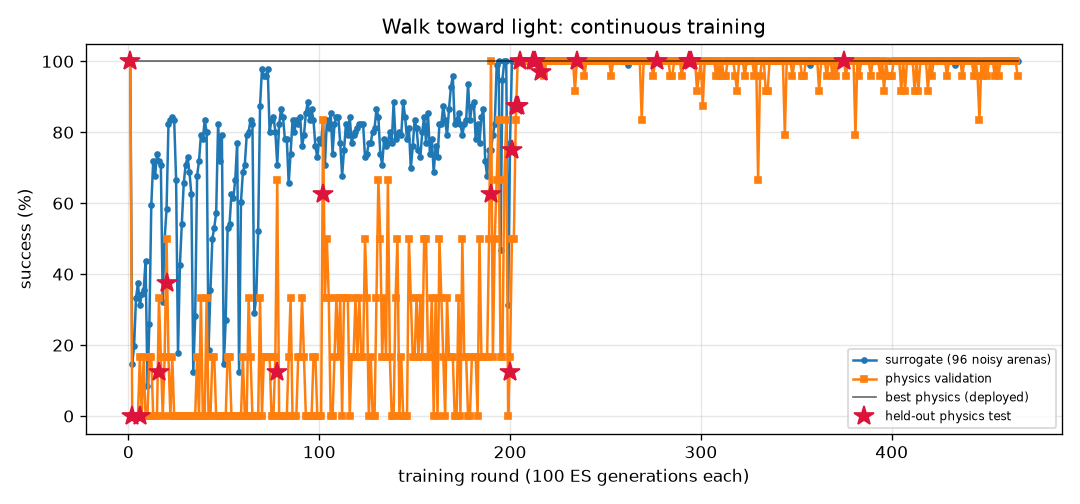
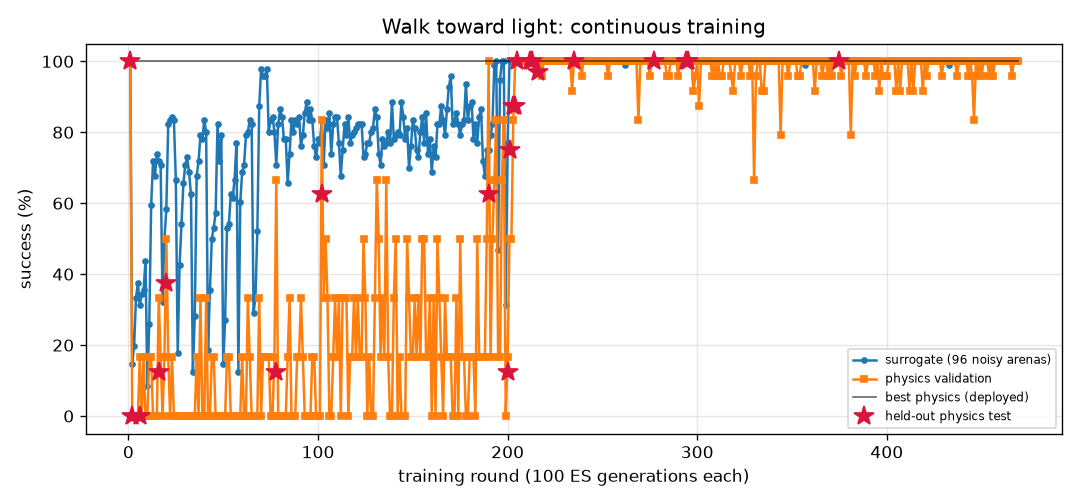
FlyLab: continuous training progress
- walk_forward: optimal, physics val 100% of 24, round 342
- turn: optimal, physics val 100% of 24, round 952
- goto: optimal, physics val 100% of 24, round 270
- odor_seek: optimal, physics val 100% of 24, round 224
- odor_avoid: optimal, physics val 100% of 24, round 854
- light_seek: optimal, physics val 100% of 24, round 469
- light_avoid: optimal, physics val 100% of 24, round 587

diff --git a/projects/09_flylab/training/light_avoid/REPORT.md b/projects/09_flylab/training/light_avoid/REPORT.md
@@ -1,14 +1,14 @@
 # Hide from light (`light_avoid`) — training report
 
-*Auto-generated by `train_brains.py`, last updated 2026-11-08T22:56:06.*
+*Auto-generated by `train_brains.py`, last updated 2026-11-08T23:21:25.*
 
 ![curve](curve.png)
 
 | | |
 |---|---|
-| rounds | 584 |
-| ES generations | 58400 |
-| physics runs | 14288 |
+| rounds | 587 |
+| ES generations | 58700 |
+| physics runs | 14360 |
 | status | **optimal** |
 | best brain | round 159: physics validation **100%** on 24 arenas, surrogate 100% |
 | held-out physics test | **100%** on 32 unseen arenas (95% CI 89%-100%) (errors: [14.4, 56.1, 58.0, 57.9, 57.5, 14.0, 14.4, 56.6, 56.8, 13.3, 14.1, 56.6, 57.6, 13.1, 57.3, 55.9, 57.2, 55.0, 55.2, 53.9, 55.2, 12.4, 53.8, 53.7, 14.1, 13.7, 55.0, 57.8, 56.2, 13.1, 52.8, 56.5]) |
@@ -17,9 +17,6 @@ Physics error per arena: mm gained away from source (> 6 without first approachi
 
 | round | level | gens | sigma | surrogate | physics val | val errors | test | note |
 |---:|---:|---:|---:|---:|---:|---|---:|---|
-| 545 | 3 | 54500 | 0.024 | 100% | 100% | [53.1, 54.4, 54.2, 53.2, 53.8, 53.3, 53.1, 14.5, 47.1, 13.4, 53.6, 53.6, 14.4, 53.7, 54.3, 51.6, 14.2, 54.5, 54.9, 14.4, 50.5, 54.0, 53.0, 53.0] |  |  |
-| 546 | 3 | 54600 | 0.024 | 98% | 100% | [51.8, 54.2, 54.0, 51.7, 52.8, 51.8, 52.9, 14.5, 39.1, 13.6, 53.3, 52.5, 14.4, 51.0, 54.1, 48.6, 14.2, 53.2, 54.4, 14.4, 7.4, 53.1, 52.6, 51.9] |  |  |
-| 547 | 3 | 54700 | 0.025 | 95% | 96% | [5.8, 55.2, 54.8, 45.7, 55.6, 53.0, 53.4, 14.5, 52.1, 13.2, 54.3, 55.4, 14.4, 54.4, 55.2, 9.1, 14.2, 55.9, 55.9, 14.4, 8.7, 53.8, 53.2, 55.0] |  | restart from best |
 | 548 | 3 | 54800 | 0.024 | 100% | 100% | [58.0, 60.4, 60.2, 57.8, 59.1, 58.3, 59.3, 14.5, 54.8, 13.2, 59.2, 58.9, 14.4, 56.4, 60.4, 58.1, 14.2, 59.8, 60.7, 14.4, 57.0, 59.5, 59.0, 58.1] |  |  |
 | 549 | 3 | 54900 | 0.024 | 100% | 100% | [48.0, 52.3, 52.0, 49.2, 52.9, 50.7, 50.3, 14.5, 50.1, 13.5, 52.3, 52.8, 14.4, 51.8, 52.1, 51.9, 14.2, 53.3, 52.7, 14.4, 49.0, 52.5, 50.4, 52.4] |  |  |
 | 550 | 3 | 55000 | 0.024 | 100% | 100% | [43.4, 44.2, 44.2, 44.3, 46.7, 45.2, 42.9, 14.5, 41.0, 13.0, 44.6, 46.9, 14.4, 44.5, 43.2, 43.3, 14.2, 48.1, 45.9, 14.4, 42.8, 43.8, 39.9, 46.9] |  |  |
@@ -57,3 +54,6 @@ Physics error per arena: mm gained away from source (> 6 without first approachi
 | 582 | 3 | 58200 | 0.026 | 94% | 96% | [6.2, 52.1, 51.8, 7.3, 51.7, 4.3, 50.3, 14.5, 51.0, 13.3, 49.5, 51.5, 14.4, 51.0, 52.0, 9.0, 14.2, 52.0, 52.4, 14.4, 8.7, 51.3, 50.0, 51.0] |  |  |
 | 583 | 3 | 58300 | 0.028 | 93% | 96% | [6.3, 55.7, 55.8, 7.3, 52.4, 4.6, 55.3, 14.5, 36.8, 13.3, 48.1, 52.1, 14.4, 50.2, 55.7, 9.0, 14.2, 53.4, 55.9, 14.4, 8.7, 49.9, 54.7, 51.0] |  | restart from best |
 | 584 | 3 | 58400 | 0.024 | 100% | 100% | [46.5, 50.4, 50.0, 47.6, 51.1, 47.6, 48.5, 14.5, 24.7, 13.3, 49.2, 50.8, 14.4, 49.5, 50.2, 50.0, 14.2, 51.3, 50.8, 14.4, 47.4, 49.8, 48.4, 50.5] |  |  |
+| 585 | 3 | 58500 | 0.024 | 100% | 100% | [56.0, 59.0, 59.0, 56.3, 56.6, 56.3, 58.4, 14.5, 53.6, 13.3, 57.6, 56.4, 14.4, 54.9, 59.0, 55.6, 14.2, 57.5, 59.2, 14.4, 54.4, 57.7, 58.1, 55.6] |  |  |
+| 586 | 3 | 58600 | 0.024 | 100% | 100% | [58.3, 61.2, 61.1, 58.6, 59.4, 59.0, 60.2, 14.5, 52.6, 13.1, 57.7, 59.7, 14.4, 57.4, 61.1, 57.7, 14.2, 60.6, 61.4, 14.4, 57.0, 56.3, 60.2, 58.5] |  |  |
+| 587 | 3 | 58700 | 0.024 | 100% | 100% | [57.3, 60.0, 60.0, 56.9, 57.5, 57.3, 59.4, 14.5, 53.7, 13.4, 58.0, 57.3, 14.4, 55.2, 60.1, 56.7, 14.2, 58.4, 60.1, 14.4, 55.9, 56.0, 59.0, 56.4] |  | restart from best |

diff --git a/projects/09_flylab/training/light_seek/REPORT.md b/projects/09_flylab/training/light_seek/REPORT.md
@@ -1,14 +1,14 @@
 # Walk toward light (`light_seek`) — training report
 
-*Auto-generated by `train_brains.py`, last updated 2026-11-08T22:58:21.*
+*Auto-generated by `train_brains.py`, last updated 2026-11-08T23:48:18.*
 
 ![curve](curve.png)
 
 | | |
 |---|---|
-| rounds | 466 |
-| ES generations | 46600 |
-| physics runs | 8064 |
+| rounds | 469 |
+| ES generations | 46900 |
+| physics runs | 8136 |
 | status | **optimal** |
 | best brain | round 375: physics validation **100%** on 24 arenas, surrogate 100% |
 | held-out physics test | **100%** on 32 unseen arenas (95% CI 89%-100%) (errors: [0.57, 0.54, 0.53, 0.57, 0.55, 0.56, 0.59, 0.56, 0.53, 0.56, 0.71, 0.56, 0.55, 0.54, 0.53, 0.54, 0.54, 0.55, 0.52, 0.65, 0.64, 0.7, 0.58, 0.57, 0.6, 0.62, 0.55, 0.88, 0.54, 0.52, 0.62, 0.57]) |
@@ -17,9 +17,6 @@ Physics error per arena: mm from target at the end (< 1.5 and standing still = s
 
 | round | level | gens | sigma | surrogate | physics val | val errors | test | note |
 |---:|---:|---:|---:|---:|---:|---|---:|---|
-| 427 | 3 | 42700 | 0.024 | 100% | 100% | [0.56, 0.61, 0.66, 0.63, 0.61, 0.68, 0.61, 0.58, 0.59, 0.54, 0.96, 0.53, 0.83, 0.62, 0.65, 0.64, 0.59, 0.83, 0.57, 0.6, 0.6, 0.62, 0.56, 0.6] |  | restart from best |
-| 428 | 3 | 42800 | 0.024 | 100% | 100% | [0.48, 0.51, 0.48, 0.6, 0.48, 0.57, 0.5, 0.51, 0.64, 0.64, 0.5, 0.58, 0.53, 0.47, 0.6, 0.55, 0.5, 0.53, 0.48, 0.5, 0.47, 1.32, 0.67, 0.49] |  |  |
-| 429 | 3 | 42900 | 0.024 | 100% | 96% | [0.76, 0.63, 0.61, 0.51, 0.66, 0.77, 0.83, 0.69, 0.66, 0.69, 0.67, 0.58, 0.65, 1.09, 1.12, 0.63, 0.62, 0.55, 0.58, 1.09, 1.67, 0.77, 0.69, 0.72] |  |  |
 | 430 | 3 | 43000 | 0.024 | 100% | 100% | [0.6, 0.55, 0.51, 0.5, 0.57, 0.57, 0.52, 0.62, 0.53, 0.52, 0.64, 0.69, 0.56, 0.55, 0.6, 0.62, 0.57, 0.98, 0.52, 0.57, 0.52, 0.84, 0.64, 0.7] |  |  |
 | 431 | 3 | 43100 | 0.024 | 100% | 100% | [0.59, 0.6, 0.52, 0.54, 0.6, 0.57, 0.6, 0.54, 0.63, 0.59, 0.54, 0.6, 0.64, 0.63, 0.64, 0.58, 0.61, 0.58, 0.59, 0.53, 0.78, 0.65, 0.61, 0.66] |  | restart from best |
 | 432 | 3 | 43200 | 0.024 | 100% | 100% | [0.59, 0.6, 0.68, 0.68, 0.62, 0.7, 0.7, 0.67, 0.63, 0.63, 0.56, 0.6, 0.58, 0.62, 0.84, 0.68, 0.61, 0.69, 0.6, 0.6, 0.79, 0.65, 0.71, 0.69] |  |  |
@@ -57,3 +54,6 @@ Physics error per arena: mm from target at the end (< 1.5 and standing still = s
 | 464 | 3 | 46400 | 0.024 | 100% | 100% | [0.68, 0.56, 0.64, 0.57, 0.58, 0.54, 0.66, 0.62, 0.71, 0.58, 0.59, 0.59, 0.62, 0.99, 0.71, 0.58, 0.72, 0.58, 0.55, 0.71, 0.62, 0.68, 0.57, 0.58] |  |  |
 | 465 | 3 | 46500 | 0.024 | 100% | 100% | [0.61, 0.47, 0.59, 0.46, 0.52, 0.52, 0.49, 0.47, 0.5, 0.59, 0.48, 0.51, 0.52, 0.47, 0.54, 0.51, 0.59, 0.82, 0.53, 0.46, 0.47, 0.46, 0.6, 0.53] |  |  |
 | 466 | 3 | 46600 | 0.024 | 100% | 96% | [0.55, 0.48, 0.49, 0.63, 0.49, 2.94, 0.6, 0.48, 0.49, 0.51, 0.54, 0.5, 0.56, 0.5, 0.57, 0.94, 0.55, 0.48, 0.49, 0.52, 0.87, 0.56, 0.52, 0.57] |  |  |
+| 467 | 3 | 46700 | 0.024 | 100% | 100% | [0.53, 0.53, 0.98, 0.47, 0.51, 0.56, 1.04, 0.54, 0.52, 0.59, 0.8, 0.51, 0.5, 0.56, 0.84, 0.56, 0.54, 0.84, 0.55, 0.88, 0.54, 1.15, 0.47, 0.52] |  | restart from best |
+| 468 | 3 | 46800 | 0.024 | 100% | 100% | [0.59, 0.58, 0.48, 0.49, 0.54, 0.45, 0.47, 0.52, 0.45, 0.52, 0.54, 0.54, 0.52, 0.49, 0.49, 0.57, 0.46, 0.54, 0.49, 0.63, 0.45, 0.59, 0.47, 0.49] |  |  |
+| 469 | 3 | 46900 | 0.024 | 100% | 100% | [0.8, 0.71, 0.66, 0.7, 0.67, 0.73, 0.63, 0.72, 0.75, 0.71, 0.81, 0.57, 0.71, 0.66, 0.78, 0.71, 0.82, 0.7, 0.72, 0.76, 0.66, 0.7, 0.77, 1.31] |  |  |

diff --git a/projects/09_flylab/training/walk_forward/REPORT.md b/projects/09_flylab/training/walk_forward/REPORT.md
@@ -1,14 +1,14 @@
 # Walk forward (`walk_forward`) — training report
 
-*Auto-generated by `train_brains.py`, last updated 2026-11-08T20:32:26.*
+*Auto-generated by `train_brains.py`, last updated 2026-11-08T23:58:49.*
 
 ![curve](curve.png)
 
 | | |
 |---|---|
-| rounds | 339 |
-| ES generations | 33900 |
-| physics runs | 8150 |
+| rounds | 342 |
+| ES generations | 34200 |
+| physics runs | 8222 |
 | status | **optimal** |
 | best brain | round 116: physics validation **100%** on 24 arenas, surrogate 100% |
 | held-out physics test | **100%** on 32 unseen arenas (95% CI 89%-100%) (errors: [0.13, 0.16, 0.19, 0.16, 0.15, 0.2, 0.17, 0.18, 0.17, 0.19, 0.2, 0.14, 0.17, 0.19, 0.2, 0.2, 0.13, 0.19, 0.16, 0.2, 0.2, 0.16, 0.17, 0.2, 0.13, 0.15, 0.18, 0.14, 0.16, 0.15, 0.19, 0.12]) |
@@ -17,9 +17,6 @@ Physics error per arena: mm from target at the end (< 1.5 and standing still = s
 
 | round | level | gens | sigma | surrogate | physics val | val errors | test | note |
 |---:|---:|---:|---:|---:|---:|---|---:|---|
-| 300 | 3 | 30000 | 0.024 | 99% | 100% | [0.21, 0.22, 0.26, 0.21, 0.22, 0.27, 0.25, 0.25, 0.23, 0.33, 0.26, 0.34, 0.26, 0.26, 0.19, 0.33, 0.22, 0.2, 0.25, 0.18, 0.24, 0.33, 0.34, 0.26] |  | restart from best |
-| 301 | 3 | 30100 | 0.024 | 100% | 54% | [0.02, 0.16, 0.57, 0.55, 0.16, 0.04, 0.04, 1.89, 0.07, 0.08, 0.06, 0.05, 0.76, 0.76, 0.11, 0.08, 1.02, 0.85, 1.77, 0.04, 0.27, 0.03, 0.03, 0.79] |  |  |
-| 302 | 3 | 30200 | 0.024 | 100% | 100% | [0.09, 0.13, 0.08, 0.1, 0.13, 0.05, 0.14, 0.07, 0.12, 0.09, 0.07, 0.14, 0.08, 0.07, 0.08, 0.14, 0.11, 0.09, 0.09, 0.13, 0.1, 0.12, 0.15, 0.07] |  |  |
 | 303 | 3 | 30300 | 0.024 | 100% | 96% | [0.19, 0.07, 0.07, 0.33, 0.1, 0.22, 0.08, 0.26, 0.09, 0.1, 0.01, 0.15, 0.03, 0.05, 0.08, 0.13, 0.3, 0.11, 0.07, 0.09, 0.3, 0.12, 0.15, 0.02] |  |  |
 | 304 | 3 | 30400 | 0.024 | 100% | 88% | [0.06, 0.1, 0.14, 0.06, 0.11, 0.06, 0.07, 0.05, 0.14, 0.21, 0.08, 0.16, 0.12, 0.02, 0.12, 0.17, 0.12, 0.14, 0.11, 0.12, 0.19, 0.22, 0.14, 0.1] |  | restart from best |
 | 305 | 3 | 30500 | 0.024 | 100% | 92% | [0.22, 0.27, 0.16, 0.22, 0.28, 0.13, 0.28, 0.04, 0.27, 0.26, 0.06, 0.25, 0.07, 0.05, 0.24, 0.26, 0.2, 0.27, 0.05, 0.25, 0.19, 0.26, 0.24, 0.33] |  |  |
@@ -57,3 +54,6 @@ Physics error per arena: mm from target at the end (< 1.5 and standing still = s
 | 337 | 3 | 33700 | 0.024 | 100% | 100% | [0.18, 0.18, 0.08, 0.17, 0.18, 0.09, 0.18, 0.1, 0.18, 0.17, 0.08, 0.14, 0.11, 0.09, 0.17, 0.18, 0.16, 0.18, 0.15, 0.2, 0.15, 0.17, 0.12, 0.1] |  |  |
 | 338 | 3 | 33800 | 0.024 | 100% | 96% | [0.1, 0.17, 0.06, 0.08, 0.18, 0.05, 0.15, 0.1, 0.15, 0.13, 0.3, 0.15, 0.07, 0.16, 0.08, 0.17, 0.1, 0.14, 0.05, 0.1, 0.09, 0.15, 0.11, 0.06] |  |  |
 | 339 | 3 | 33900 | 0.024 | 100% | 100% | [0.14, 0.14, 0.09, 0.13, 0.14, 0.11, 0.14, 0.12, 0.13, 0.14, 0.12, 0.14, 0.11, 0.11, 0.13, 0.14, 0.13, 0.13, 0.12, 0.11, 0.13, 0.13, 0.09, 0.12] |  |  |
+| 340 | 3 | 34000 | 0.024 | 100% | 100% | [0.21, 0.22, 0.17, 0.2, 0.22, 0.17, 0.22, 0.18, 0.22, 0.21, 0.16, 0.21, 0.17, 0.17, 0.21, 0.21, 0.2, 0.22, 0.18, 0.22, 0.19, 0.22, 0.21, 0.17] |  | restart from best |
+| 341 | 3 | 34100 | 0.024 | 100% | 100% | [0.33, 0.36, 0.29, 0.33, 0.36, 0.28, 0.36, 0.29, 0.36, 0.36, 0.27, 0.35, 0.3, 0.27, 0.34, 0.36, 0.32, 0.36, 0.28, 0.34, 0.3, 0.36, 0.35, 0.3] |  |  |
+| 342 | 3 | 34200 | 0.024 | 100% | 100% | [0.3, 0.34, 0.23, 0.29, 0.35, 0.23, 0.35, 0.24, 0.34, 0.33, 0.24, 0.32, 0.24, 0.24, 0.32, 0.33, 0.28, 0.34, 0.25, 0.32, 0.25, 0.33, 0.31, 0.24] |  |  |

diff --git a/projects/09_flylab/training/TRAINING.md b/projects/09_flylab/training/TRAINING.md
@@ -1,15 +1,15 @@
 # FlyLab brains — continuous training log
 
-*Auto-generated by `train_brains.py`, last updated 2026-11-08T22:58:21.*
+*Auto-generated by `train_brains.py`, last updated 2026-11-08T23:58:49.*
 
 Every skill has its own brain and its own training process: surrogate ES rounds, physics validation in MuJoCo, keep-the-best selection, and a held-out physics test that is never used for selection. See each skill's report for its full round-by-round history. Mastery is progressive: passing a level (100% physics validation, >=95% surrogate) doubles the validation and test arena sets; a brain is **optimal** once it holds up at level 3 (>=95% of 24 validation arenas) AND scores >=90% on the 32 held-out test arenas. Test columns show 95% Wilson confidence intervals.
 
 | skill | rounds | ES generations | physics runs | surrogate | physics val | **physics test** | status |
 |---|---:|---:|---:|---:|---:|---:|---|
-| [Walk forward](walk_forward/REPORT.md) | 339 | 33900 | 8150 | 100% | 100% of 24 | 100% of 32 (CI 89-100%) | **optimal** |
+| [Walk forward](walk_forward/REPORT.md) | 342 | 34200 | 8222 | 100% | 100% of 24 | 100% of 32 (CI 89-100%) | **optimal** |
 | [Turn in place](turn/REPORT.md) | 952 | 95200 | 23094 | 100% | 100% of 24 | 97% of 32 (CI 84-99%) | **optimal** |
 | [Go to a location](goto/REPORT.md) | 270 | 27000 | 6430 | 100% | 100% of 24 | 100% of 32 (CI 89-100%) | **optimal** |
 | [Find food by smell](odor_seek/REPORT.md) | 224 | 22400 | 4806 | 100% | 100% of 24 | 100% of 32 (CI 89-100%) | **optimal** |
 | [Escape a bad smell](odor_avoid/REPORT.md) | 854 | 85400 | 17802 | 97% | 100% of 24 | 97% of 32 (CI 84-99%) | **optimal** |
-| [Walk toward light](light_seek/REPORT.md) | 466 | 46600 | 8064 | 100% | 100% of 24 | 100% of 32 (CI 89-100%) | **optimal** |
-| [Hide from light](light_avoid/REPORT.md) | 584 | 58400 | 14288 | 100% | 100% of 24 | 100% of 32 (CI 89-100%) | **optimal** |
+| [Walk toward light](light_seek/REPORT.md) | 469 | 46900 | 8136 | 100% | 100% of 24 | 100% of 32 (CI 89-100%) | **optimal** |
+| [Hide from light](light_avoid/REPORT.md) | 587 | 58700 | 14360 | 100% | 100% of 24 | 100% of 32 (CI 89-100%) | **optimal** |
